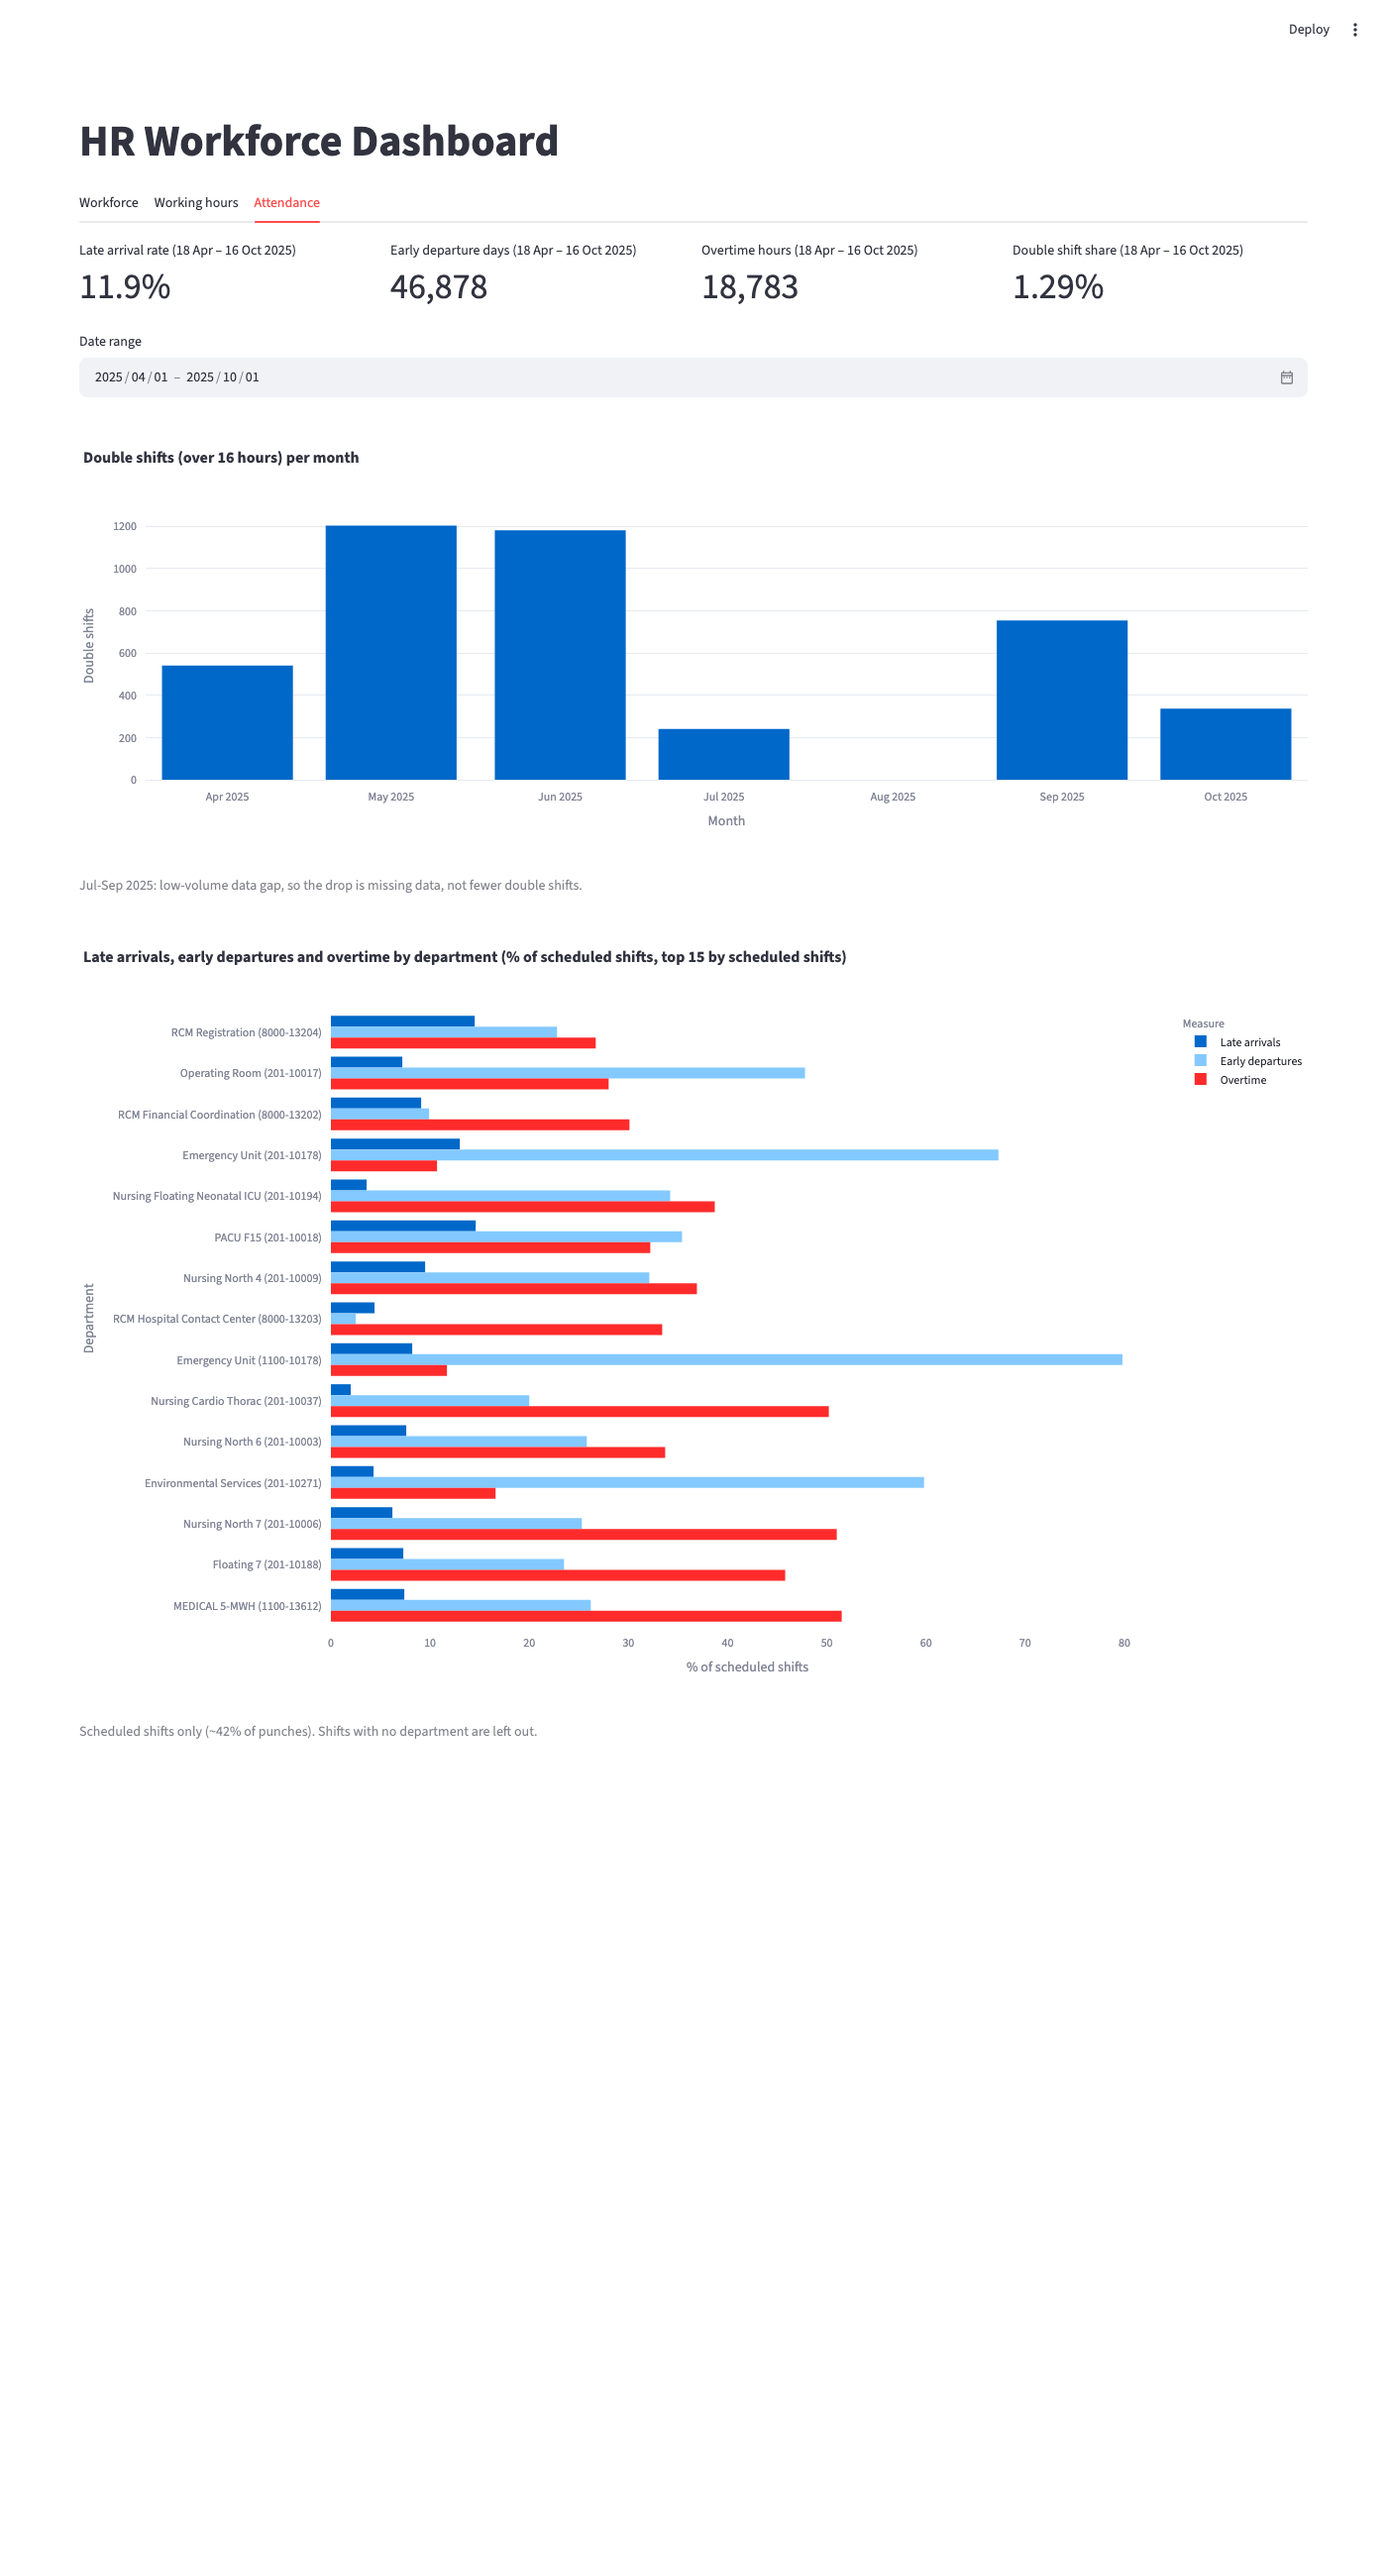
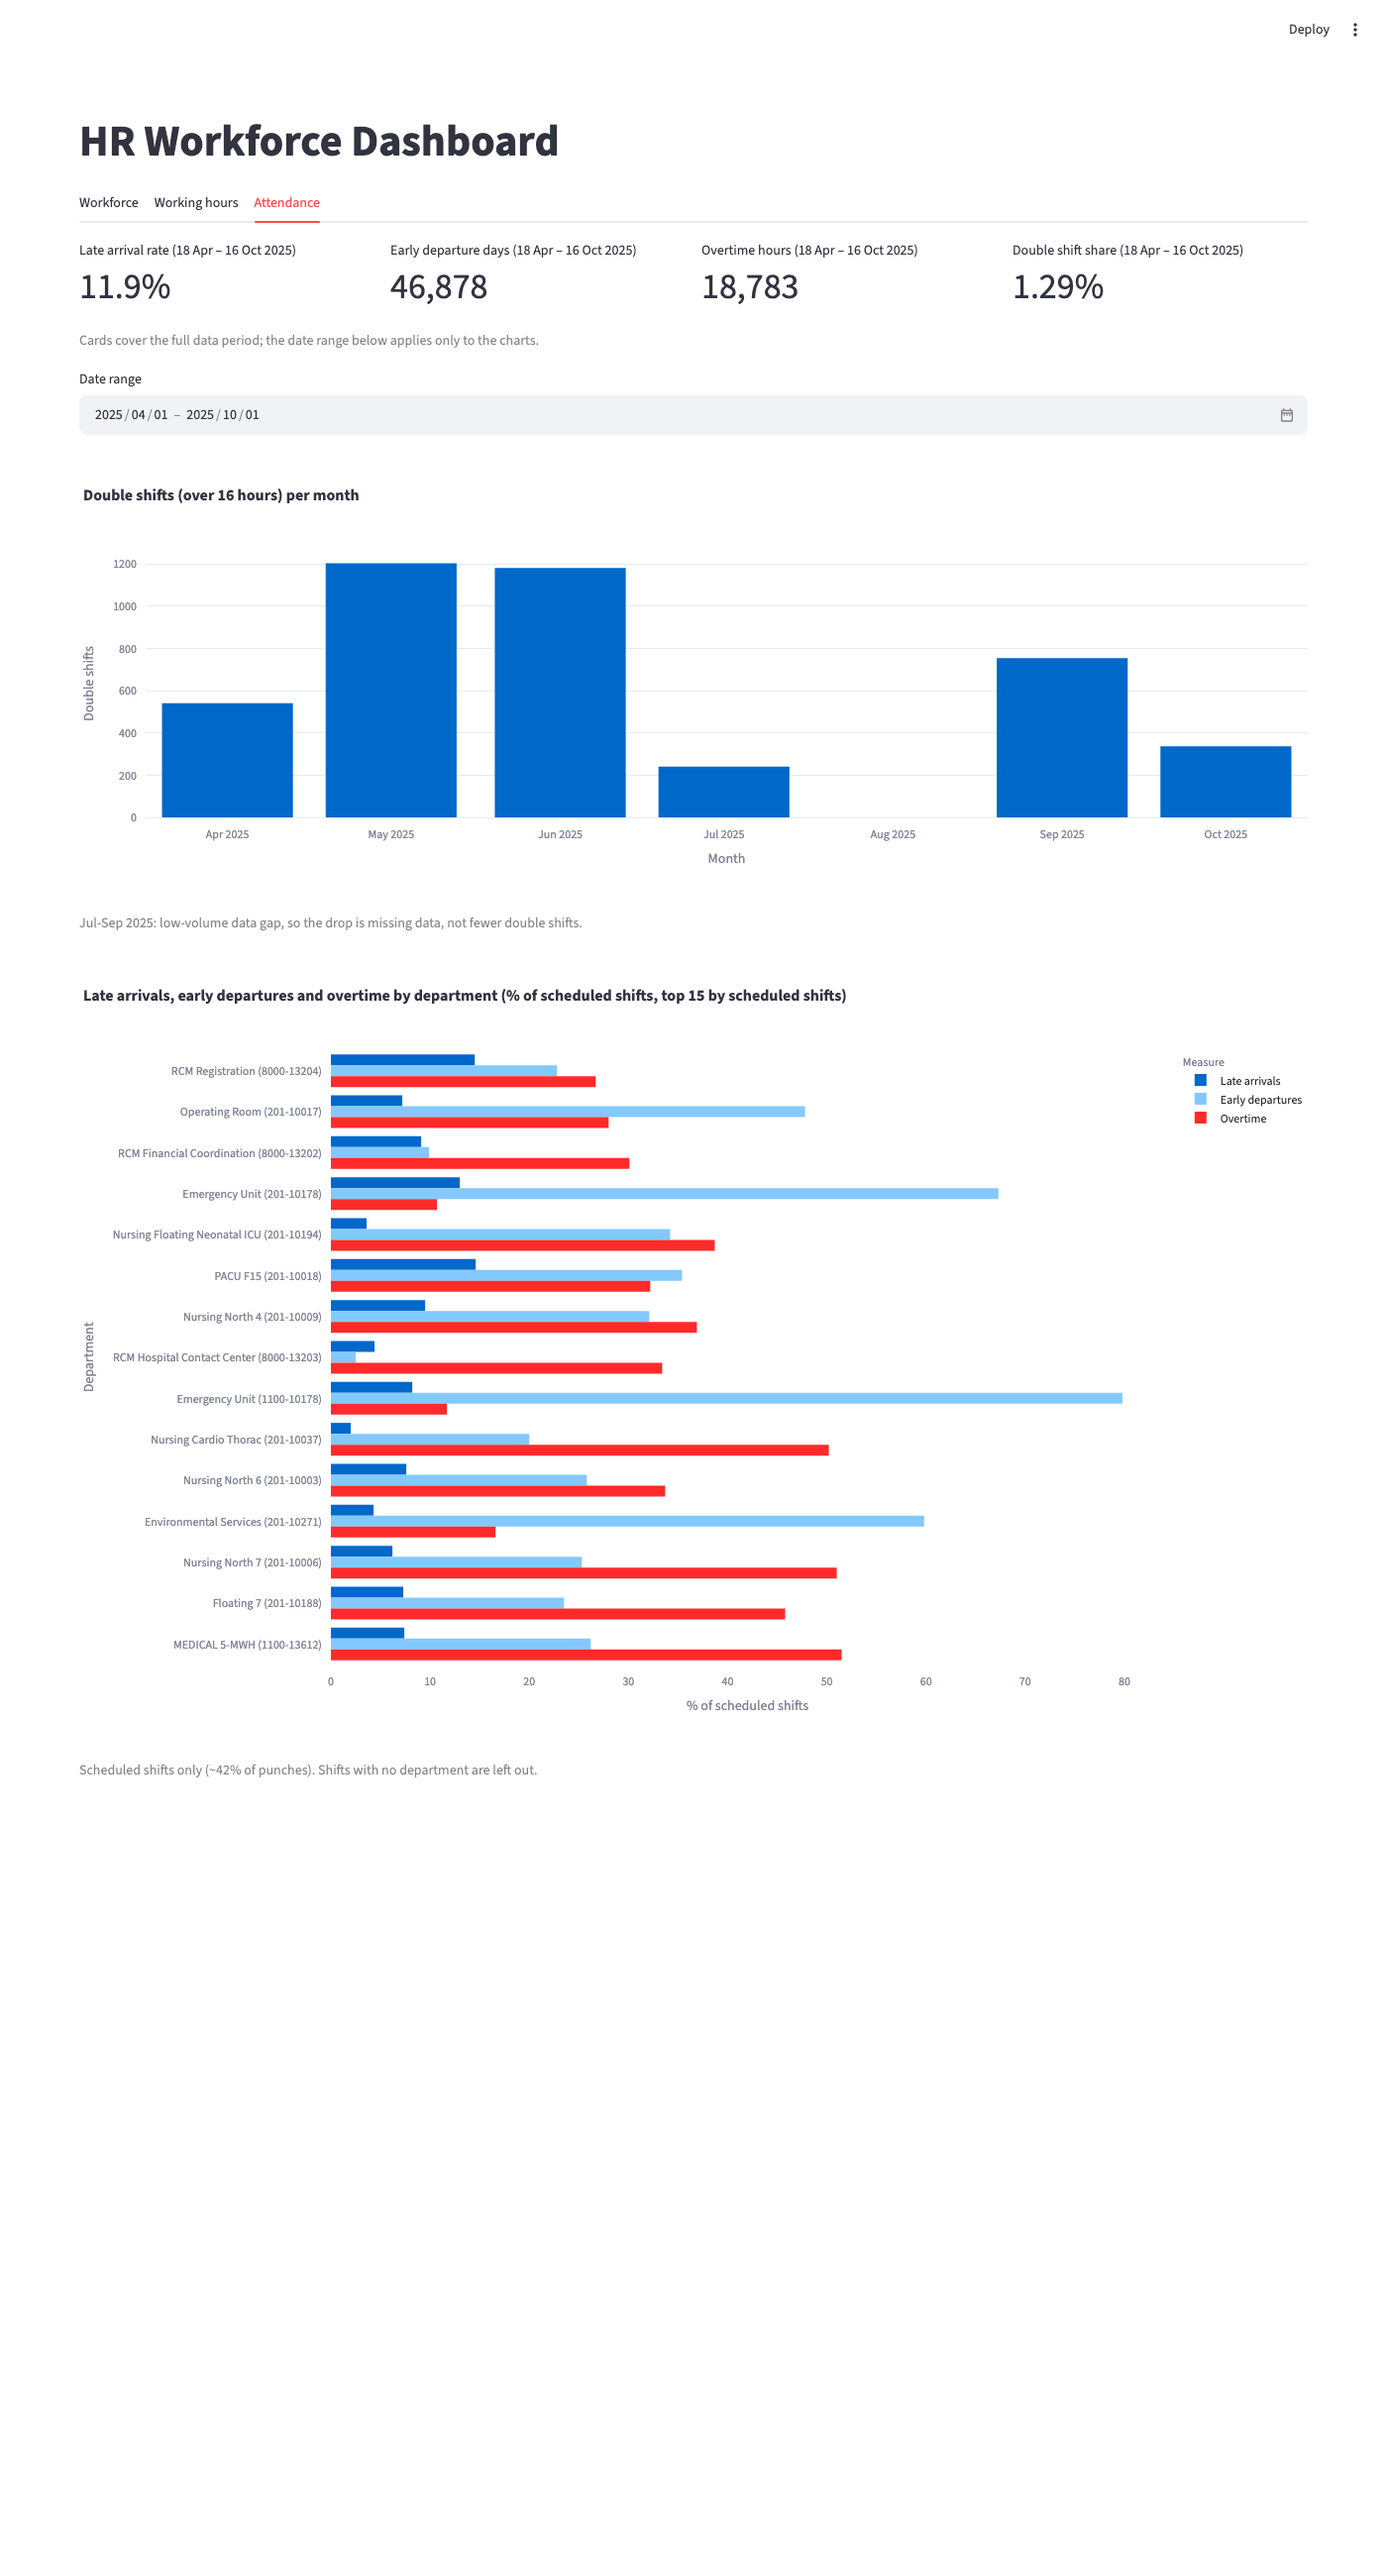
Note under the dashboard cards that the date range applies only to the charts

diff --git a/dashboard/app.py b/dashboard/app.py
@@ -53,6 +53,9 @@ with workforce_tab:
     col4.metric("Early attrition, 90 days (all employees)",
                 f"{attrition['early_attrition_rate_pct'].iloc[0]}%")
 
+    st.caption("Cards cover the full data period; the date range below "
+               "applies only to the charts.")
+
     start, end = date_filter("workforce_dates", headcount["as_of_date"].iloc[0], last_day)
 
     st.plotly_chart(px.line(
@@ -100,6 +103,9 @@ with hours_tab:
     col2.metric(f"Employees with worked hours ({period})", f"{len(per_employee):,}")
     col3.metric(f"Total worked hours ({period})", f"{total_hours:,.0f}")
 
+    st.caption("Cards cover the full data period; the date range below "
+               "applies only to the charts.")
+
     start, end = date_filter("hours_dates", first_day, last_day)
 
     st.plotly_chart(px.line(
@@ -141,6 +147,9 @@ with attendance_tab:
     col3.metric(f"Overtime hours ({period})",
                 f"{overtime['overtime_hours'].sum():,.0f}")
     col4.metric(f"Double shift share ({period})", f"{double_share:.2f}%")
+
+    st.caption("Cards cover the full data period; the date range below "
+               "applies only to the charts.")
 
     start, end = date_filter("attendance_dates", long_shifts["month"].iloc[0],
                              long_shifts["month"].iloc[-1])
